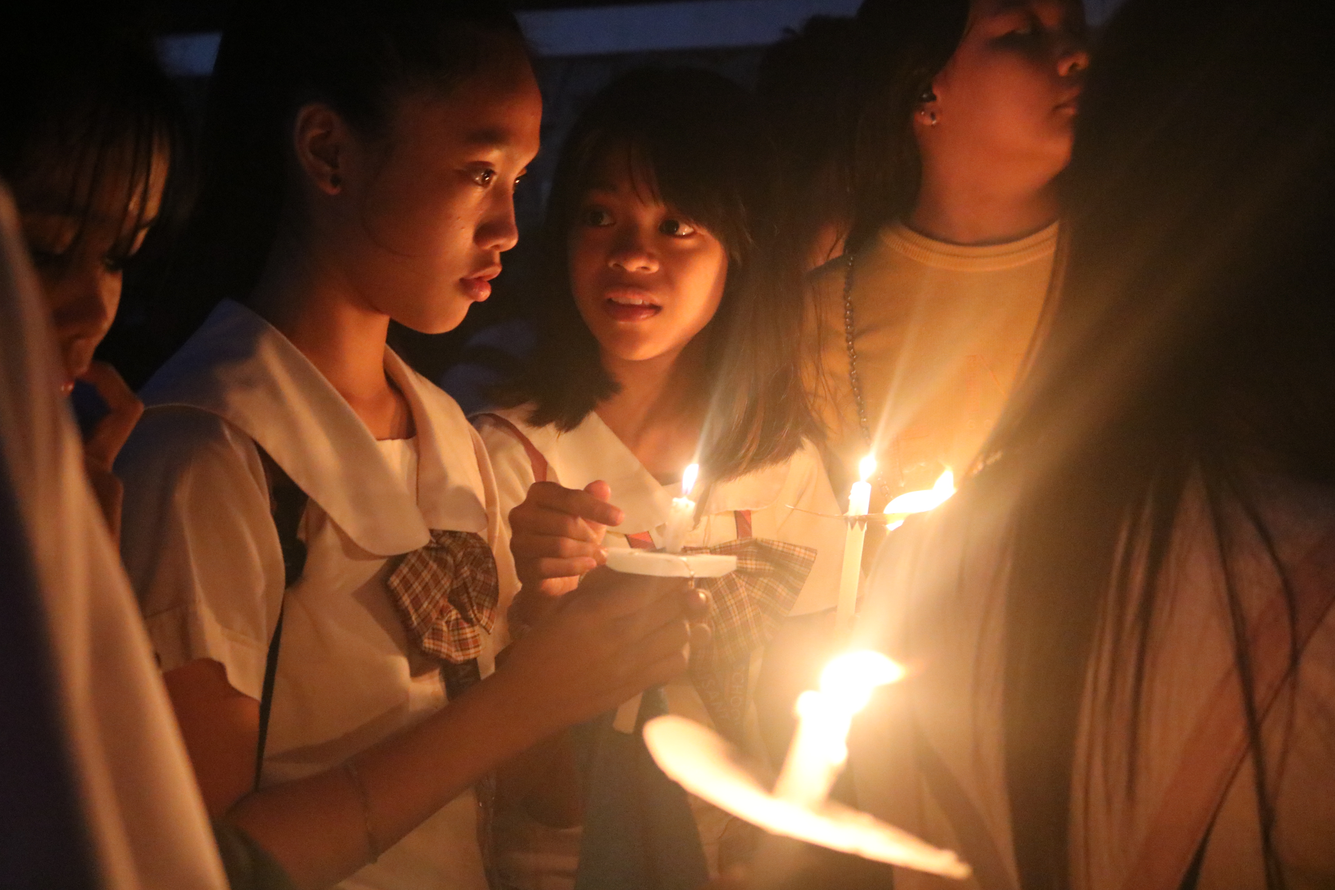
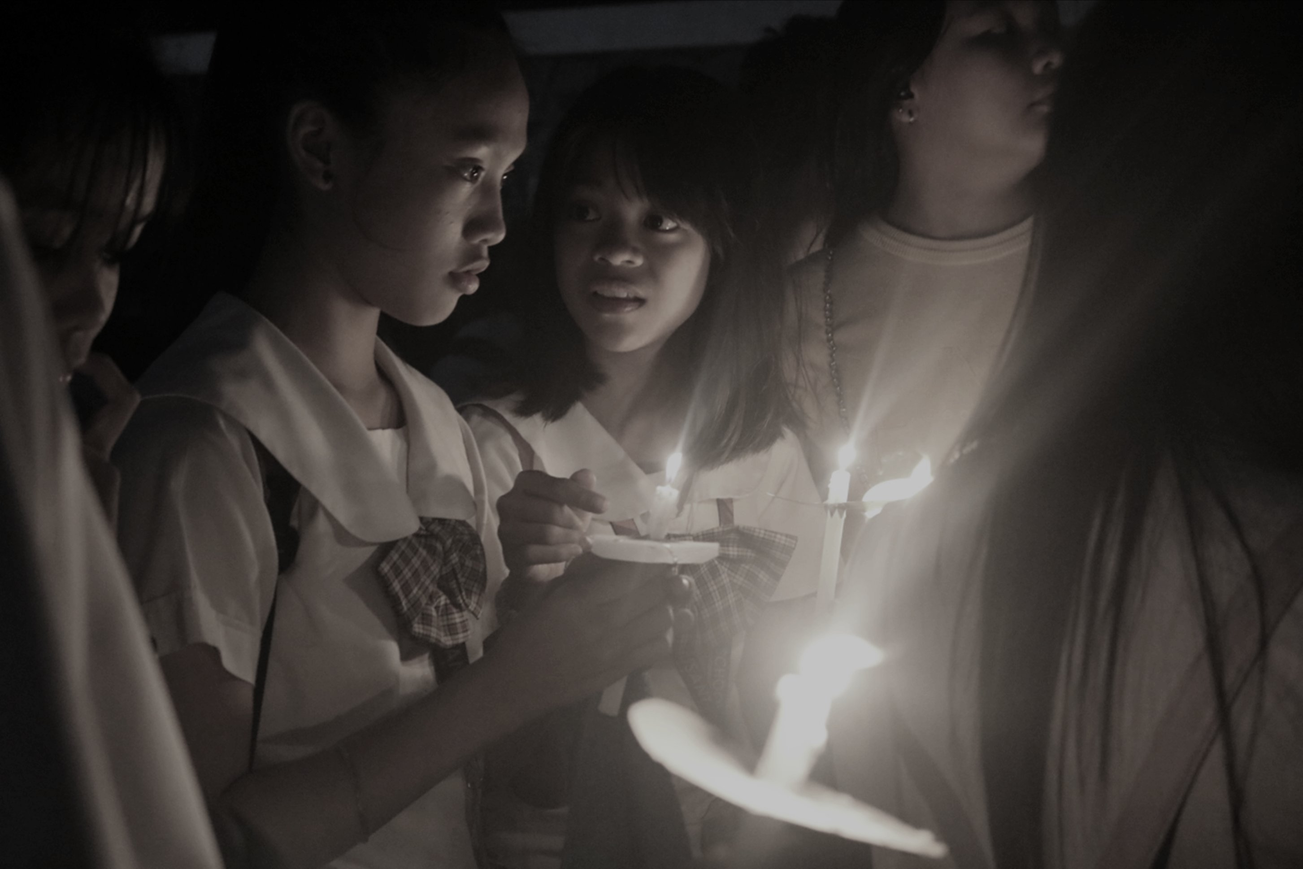
changed bgd photo

diff --git a/css/Style.css b/css/Style.css
@@ -197,7 +197,7 @@ main .blog-content .blog-title{
 
 
 .site-title{
-    background: url("../assets/Background-image.JPG");
+    background: url("../assets/Background-image.jpg");
     background-size: cover;
     height: 89vh;
     display: flex;
@@ -215,7 +215,6 @@ main .blog-content .blog-title{
 .site-title h1, h3{
     margin: 0.75rem;
     color: black;
-    z-index: 1;
 }
 
 .site-title .btn{
@@ -575,7 +574,7 @@ footer.footer .move-up span:hover{
 
     main .site-content{
         grid-template-columns: 100%;
-        margin-top: -150px;
+        margin-top: -20vh;
 
     }
 
@@ -596,7 +595,7 @@ footer.footer .move-up span:hover{
 
     main .site-content{
         grid-template-columns: 100%;
-        margin-top: -150px;
+        margin-top: -20vh;
 
     }
 
@@ -616,7 +615,7 @@ footer.footer .move-up span:hover{
  
     main .site-content{
         grid-template-columns: 100%;
-        margin-top: -150px;
+        margin-top: -20vh;
 
     }
 
